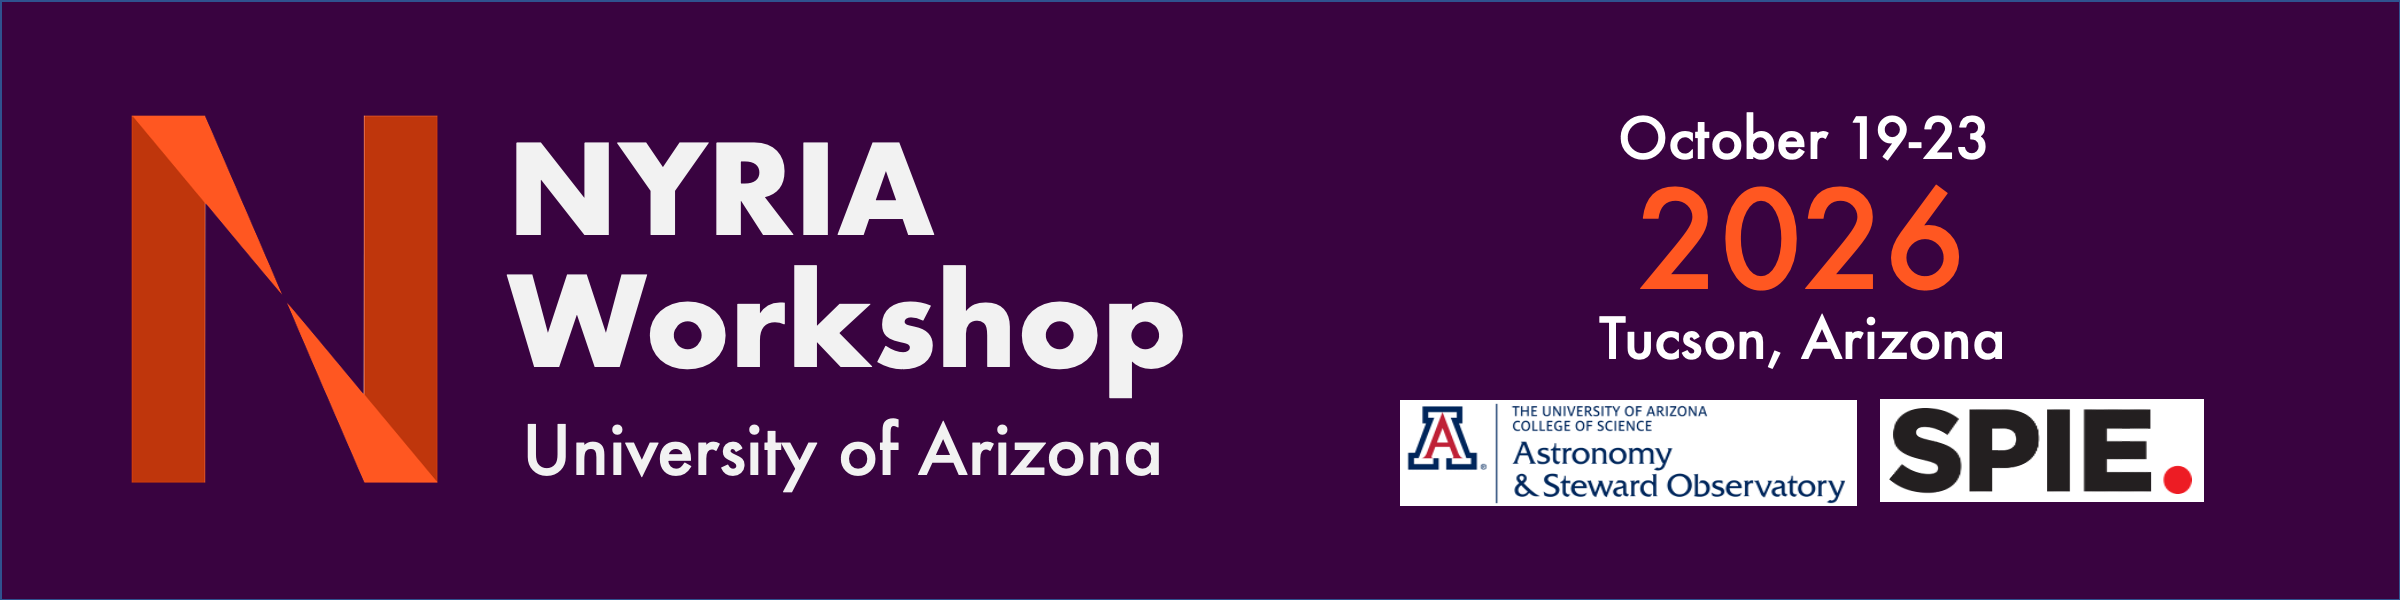
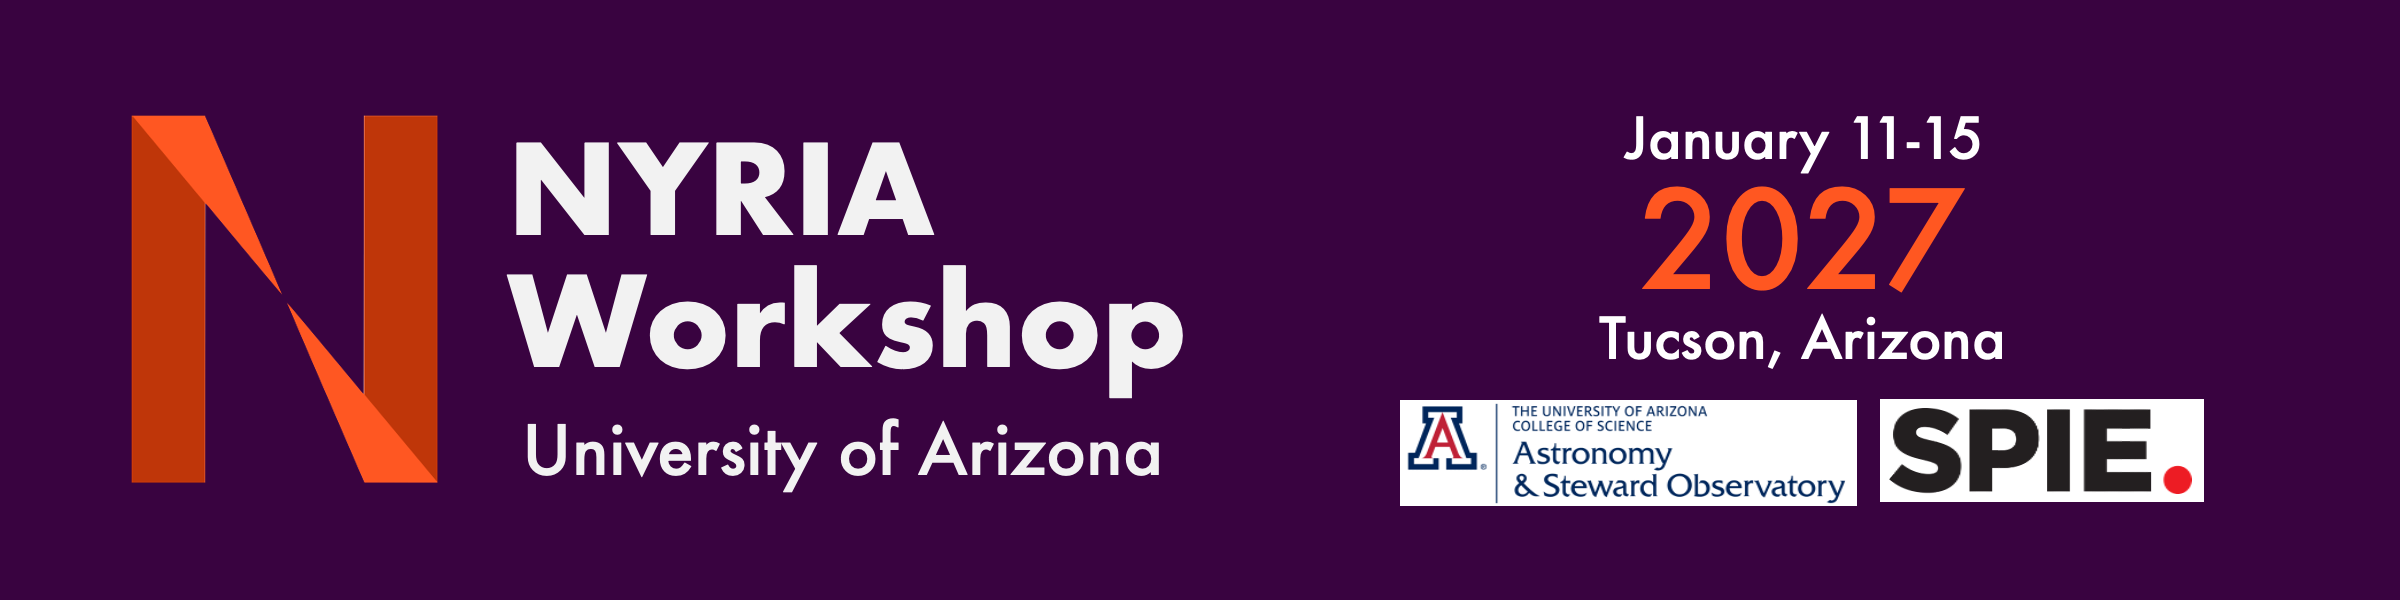
workshop date update

diff --git a/_workshops/2026.html b/_workshops/2026.html
@@ -23,7 +23,7 @@ image: /assets/img/workshops/2026/arizona.jpg
 </center>	
 
 <p>
-  <b>Date:</b> 19th - 23rd October 2026<br>
+  <b>Date:</b> 11th - 15th January 2027<br>
   <b>Venue:</b> {{page.institute}} <br>
   <b>Local Organizers:</b> NYRIA 2026 XWCL <br>
   <b>Application: </b> <a href="https://docs.google.com/forms/d/e/1FAIpQLSc_mWEbrl4basjH38Q0HjaIAFZOuJ_nC4zeksSjITHEDG5ljA/viewform?usp=publish-editor"> Application form </a><br>
@@ -54,8 +54,8 @@ The application fee includes the full program, five nights of accommodation, a w
 </p>
 
 <b>Application Start: </b> February 2nd 2026 <br><!--<a href="https://forms.gle/zVknNpwEL6urUDKA6"> Application form </a><br>-->
-<b>Application Deadline:</b> May 15th 2026 <br>
-<b>Notification of Acceptance:</b> Mid of June 2026<br>
+<b>Application Deadline:</b> August 15th 2026 <br>
+<b>Notification of Acceptance:</b> Middle of September 2026<br>
 <b>Registration Fee:</b> $150<br>
 Contact information: If you have any questions please contact us at nyria2026(at)gmail.com
 
